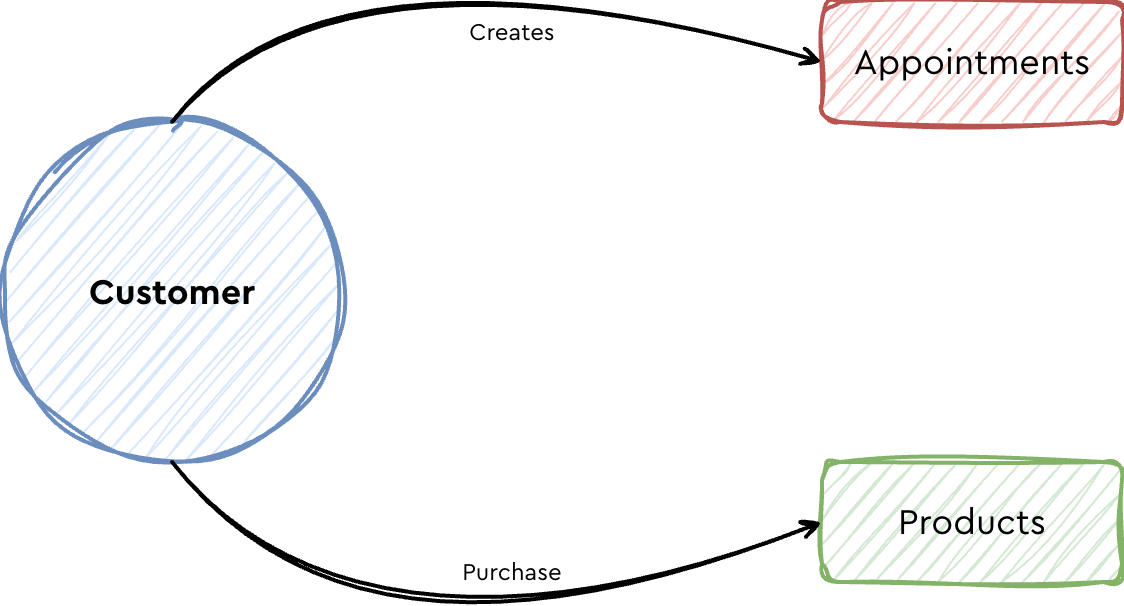
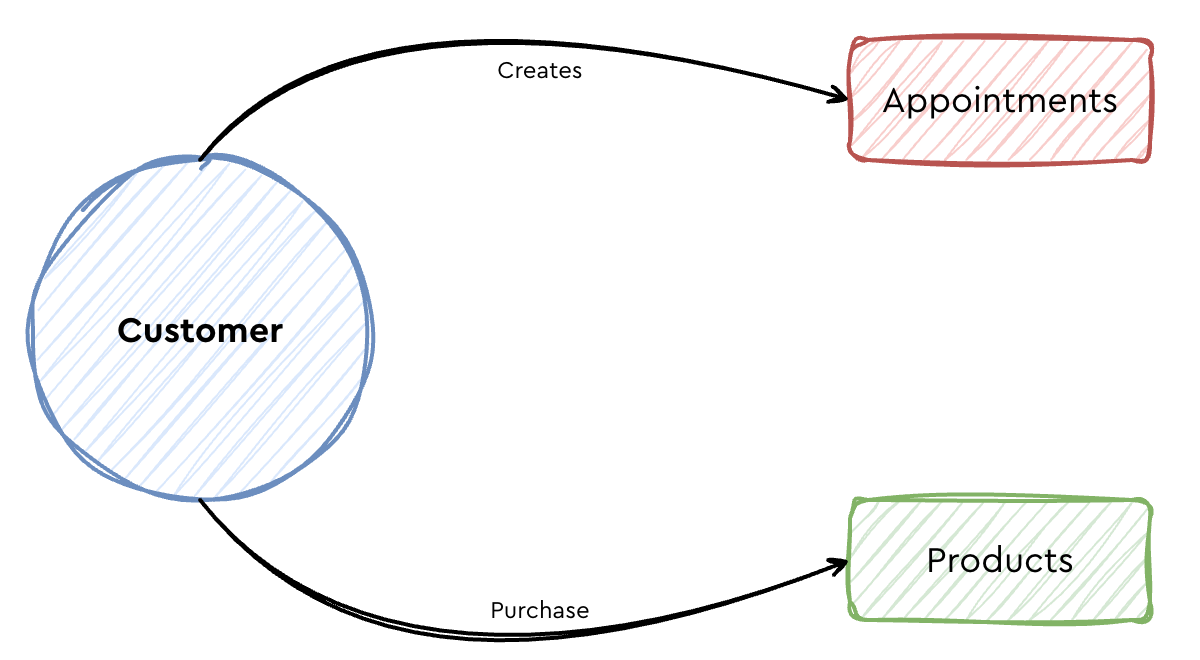
AEP profile strategy, added concept image

diff --git a/adobe/aep/IdentityStrategy.md b/adobe/aep/IdentityStrategy.md
@@ -29,7 +29,7 @@ In this example, we can identify the following concepts:
 - **Product**: An item available for purchase in the store.
 
 <picture>
-  <img src="/adobe/aep/assets/IdentityStrategy-Concepts.png" alt="Swim Journey Store Concepts" width="500" />
+  <img src="/adobe/aep/assets/IdentityStrategy-Concepts.png" alt="Swim Journey Store Concepts" width="550" />
 </picture>
 
 
